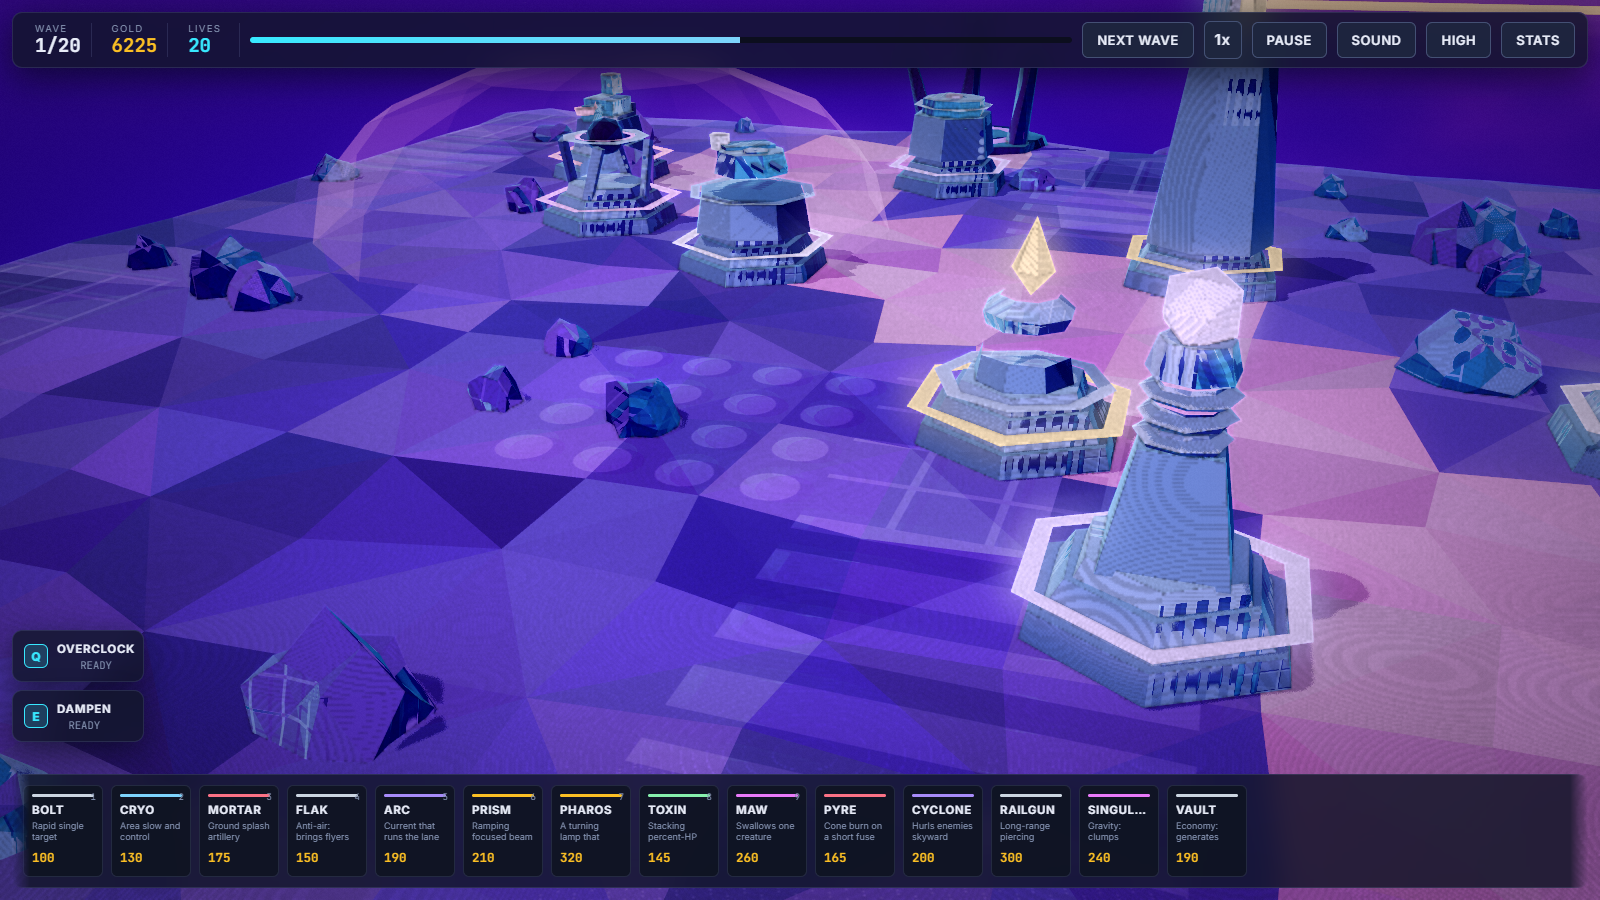
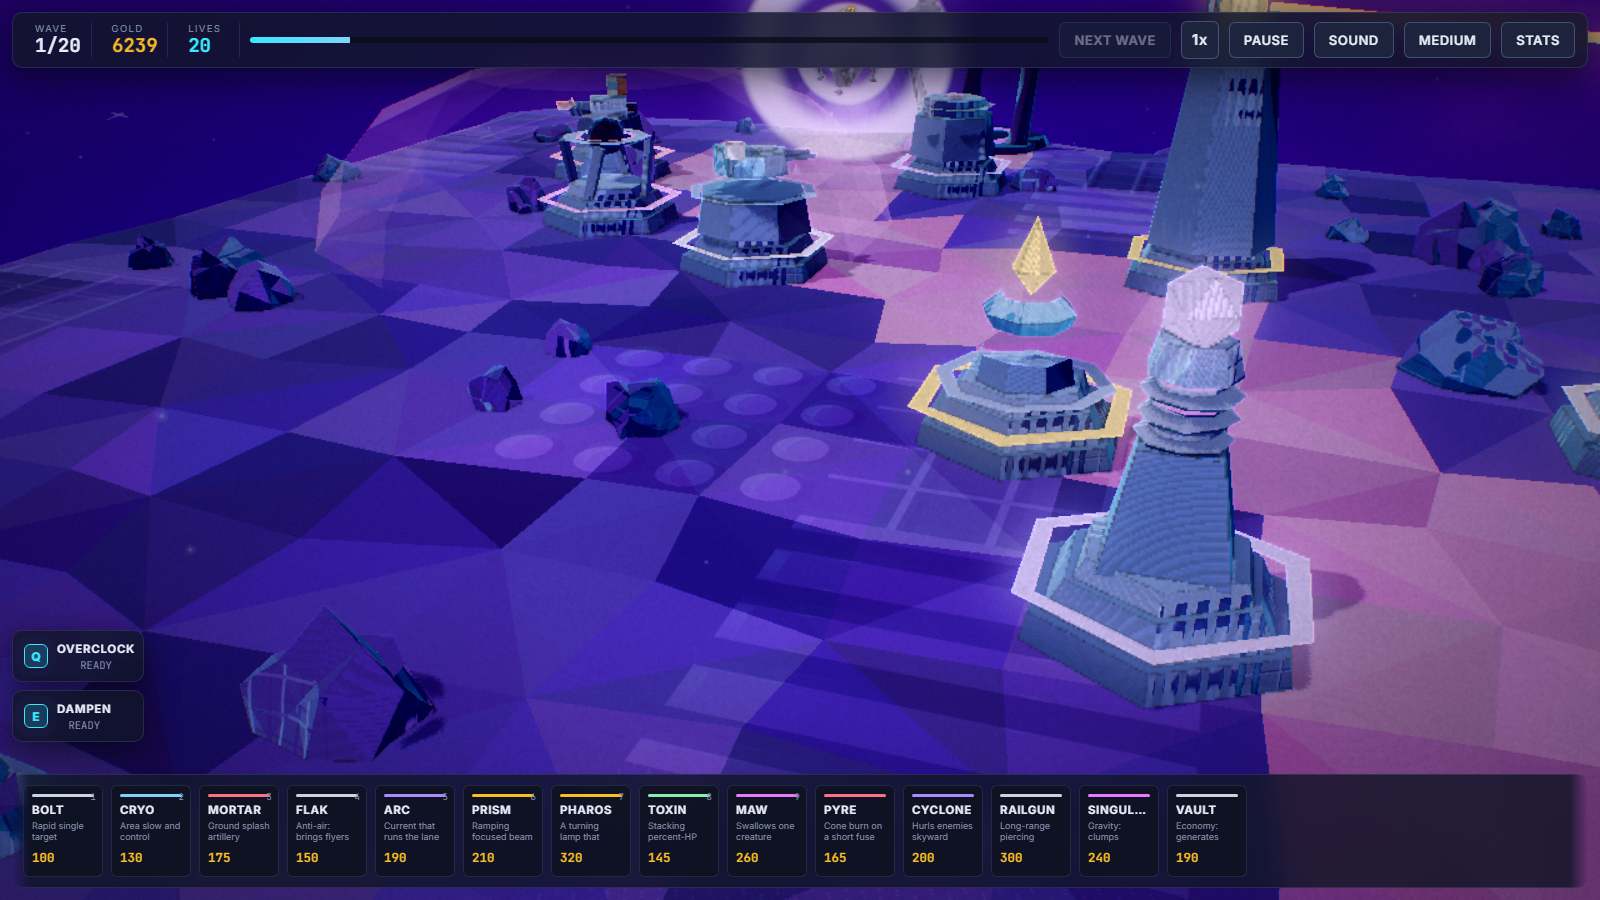
AETHER: play on a planet - spherical ground sag + world sphere replaces the rim wall (globe look, shoreline edges, no floating slab)

diff --git a/cosmic-aether/cosmic-aether.html b/cosmic-aether/cosmic-aether.html
@@ -5155,7 +5155,7 @@ var R = (function () {
     p.u1f('uRimPower', ART.rimPower);
     p.u3v('uAmbientSky', pal.ambientSky);
     p.u3v('uAmbientGround', pal.ambientGround);
-    p.u1f('uAmbient', hd ? ART.ambient * 1.15 : ART.ambient);
+    p.u1f('uAmbient', hd ? ART.ambient * 1.26 : ART.ambient);
     p.u1f('uSpecStrength', ART.specStrength);
     p.u1f('uSpecPower', ART.specPower);
     p.u1f('uBands', ART.bands);
@@ -5427,7 +5427,7 @@ var R = (function () {
       ph.u2f('uRes', W, H);
       ph.u1f('uTime', time);
       ph.u1f('uBloomStrength', quality.bloom ? ART.bloomStrength * 0.52 : 0.0);
-      ph.u1f('uExposure', fx.exposure * ART.exposure * 1.06);
+      ph.u1f('uExposure', fx.exposure * ART.exposure * 1.14);
       ph.u1f('uSaturation', ART.saturation * 1.14);
       ph.u1f('uContrast', ART.contrast * 1.04);
       ph.u3f('uLift', 0.008, -0.003, 0.018);
@@ -5810,6 +5810,18 @@ var TERRAIN = (function () {
       }
     }
 
+    /* PLANET SAG. The board is now a biome on a globe: every height is pulled
+       down by its own spherical sag so the plateau bends toward the horizon,
+       and a big planet sphere below catches the edges (the border dives under
+       it, so there is no floating rim and no gap anywhere). Gameplay stays
+       flat enough: the sag is ~4 units over a 45-unit half extent, and units
+       and click targets use heightAt, which knows the sag. */
+    var SAG_R = 300.0;
+    for (var sgi = 0; sgi < HW * HH; sgi++) {
+      var sx2 = (sgi % HW) * CS - halfW, sz2 = Math.floor(sgi / HW) * CS - halfH;
+      height[sgi] -= (sx2 * sx2 + sz2 * sz2) / (2.0 * SAG_R);
+    }
+
     function heightAt(wx, wz) {
       var fx = (wx + halfW) / CS, fz = (wz + halfH) / CS;
       var x0 = Math.floor(fx), z0 = Math.floor(fz);
@@ -5984,59 +5996,29 @@ var TERRAIN = (function () {
       padData = padB.build({ jitter: 0.015 });
     }
 
-    /* ---------- RIM WALL ----------
-       The board is a floating plate; without a wall it is a sheet with a
-       cliff hole in it. Two-tone skirt around the whole boundary gives the
-       plate visible thickness and the rim a lit ceiling to read against:
-       a light cap band where the plateau meets the drop, and a dark body
-       falling to the void below. */
-    var rimB = MESH.builder('rim:' + seed);
-    var capCol = '#463a7c', bodyCol = '#0b0914';
-    var bottomY = -12.0;
-    function wallSeg(x0, z0, y0, x1, z1, y1) {
-      var topA = [x0, y0, z0], topB = [x1, y1, z1];
-      var midA = [x0, y0 - capH, z0], midB = [x1, y1 - capH, z1];
-      var botA = [x0, bottomY, z0], botB = [x1, bottomY, z1];
-      rimB.color(capCol).tooth(0.8);
-      rimB.quad(topA, topB, midB, midA);
-      rimB.color(bodyCol).tooth(0.9);
-      rimB.quad(midA, midB, botB, botA);
+    /* ---------- PLANET ----------
+       The world itself. One huge lathe sphere below the plate: its crown
+       sits just under the board centre, and the board's own sag carries the
+       board edge below the sphere surface, so the border reads as shoreline
+       on a globe rather than as the edge of a floating slab. Bands of dark
+       violet basalt so the world owns a light response of its own. */
+    var PLANET_R = 300.0;
+    var planetB = MESH.builder('planet:' + seed);
+    var ss2 = 26;
+    function profSpan(fr0, fr1) {
+      var prof = [];
+      for (var si2 = 0; si2 <= 4; si2++) {
+        var a = (fr0 + (fr1 - fr0) * si2 / 4) * Math.PI - Math.PI / 2;
+        prof.push([Math.max(0.001, Math.cos(a) * PLANET_R), Math.sin(a) * PLANET_R]);
+      }
+      return prof;
     }
-    /* Perimeter: four sides traversed counter-clockwise when seen from
-       above. With quad(topA, topB, midB, midA) that traversal always yields
-       a wall facing OUTWARD (verified: +x traversal on the -z side gives -z
-       normal, -z traversal on the -x side gives -x normal, and so on). */
-    var capH = 1.8;
-    function wallSeg(x0, z0, y0, x1, z1, y1) {
-      var topA = [x0, y0, z0], topB = [x1, y1, z1];
-      var midA = [x0, y0 - capH, z0], midB = [x1, y1 - capH, z1];
-      var botA = [x0, bottomY, z0], botB = [x1, bottomY, z1];
-      rimB.color(capCol).tooth(0.8);
-      rimB.quad(topA, topB, midB, midA);
-      rimB.color(bodyCol).tooth(0.9);
-      rimB.quad(midA, midB, botB, botA);
-    }
-    /* z = -halfH edge, +x traversal (row 0 of the height grid). */
-    for (var xw = 0; xw < GW; xw++) {
-      wallSeg(-halfW + xw * CS, -halfH, height[xw * HW + 0],
-              -halfW + (xw + 1) * CS, -halfH, height[(xw + 1) * HW + 0]);
-    }
-    /* x = +halfW edge, +z traversal (last column of the grid). */
-    for (var zw = 0; zw < GH; zw++) {
-      wallSeg(halfW, -halfH + zw * CS, height[zw * HW + GW],
-              halfW, -halfH + (zw + 1) * CS, height[(zw + 1) * HW + GW]);
-    }
-    /* z = +halfH edge, -x traversal (last row of the grid). */
-    for (var xw2 = GW - 1; xw2 >= 0; xw2--) {
-      wallSeg(-halfW + (xw2 + 1) * CS, halfH, height[(xw2 + 1) * HW + (HH - 1)],
-              -halfW + xw2 * CS, halfH, height[xw2 * HW + (HH - 1)]);
-    }
-    /* x = -halfW edge, -z traversal (first column of the grid). */
-    for (var zw2 = GH - 1; zw2 >= 0; zw2--) {
-      wallSeg(-halfW, -halfH + zw2 * CS, height[zw2 * HW + 0],
-              -halfW, -halfH + (zw2 + 1) * CS, height[(zw2 + 1) * HW]);
-    }
-    var rimData = rimB.build({ jitter: 0.008 });
+    planetB.color('#241b52'); planetB.lathe(profSpan(0.00, 0.22), ss2, 0);
+    planetB.color('#1a1240'); planetB.lathe(profSpan(0.22, 0.58), ss2, 0);
+    planetB.color('#120d2c'); planetB.lathe(profSpan(0.58, 0.86), ss2, 0);
+    planetB.color('#100b26'); planetB.lathe(profSpan(0.86, 1.00), ss2, 0);
+    var planetData = MESH.transform(planetB.build({ jitter: 0.02 }),
+      U.m4trs(0, -(PLANET_R + 0.35), 0, 0, 0, 0, 1, 1, 1));
 
     /* ---------- scenery ----------
        Baked into a single merged mesh: it never moves, so there is no reason
@@ -6135,7 +6117,7 @@ var TERRAIN = (function () {
       plots: plots,
       groundData: groundData,
       padData: padData,
-      rimData: rimData,
+      planetData: planetData,
       decorData: decorData,
       spireData: spireData,
       spawn: pathAt(path, 0).pos,
@@ -10678,7 +10660,7 @@ var GAME = (function () {
     /* Board meshes, rebuilt per run because the board can change. */
     G.groundMesh = trackMesh(GL.mesh(G.board.groundData));
     G.padMesh = G.board.padData ? trackMesh(GL.mesh(G.board.padData)) : null;
-    G.rimMesh = G.board.rimData ? trackMesh(GL.mesh(G.board.rimData)) : null;
+    G.planetMesh = G.board.planetData ? trackMesh(GL.mesh(G.board.planetData)) : null;
     G.decorMesh = G.board.decorData ? trackMesh(GL.mesh(G.board.decorData)) : null;
     G.spireMesh = G.board.spireData ? trackMesh(GL.mesh(G.board.spireData)) : null;
     var pal = R.palette();
@@ -11369,9 +11351,10 @@ var GAME = (function () {
     R.push(G.groundMesh, U.m4ident(), { castShadow: false, facetJitter: 0.015, rimScale: 0.18, mat: 'ground' });
     /* Paving slabs stand on the ground; give them their own quiet scale. */
     if (G.padMesh) R.push(G.padMesh, U.m4ident(), { mat: 'ground', detailScale: 0.6, rimScale: 0.25, facetJitter: 0.015 });
-    /* The rim wall: stone, slightly stronger detail, no shadows (it catches
-       the key and reads as the plate's thickness). */
-    if (G.rimMesh) R.push(G.rimMesh, U.m4ident(), { mat: 'stone', detailScale: 0.35, castShadow: false, facetJitter: 0.02, rimScale: 0.3 });
+    /* THE WORLD. The planet sphere renders first (bottom of the stack) so
+       the board sits into it; soft rock detail, no cast shadow (it IS the
+       ground of the universe). */
+    if (G.planetMesh) R.push(G.planetMesh, U.m4ident(), { mat: 'stone', detailScale: 0.5, castShadow: false, facetJitter: 0.02, rimScale: 0.4 });
     /* Scenery takes a reduced rim so the rocks and spires stay BEHIND the
        towers in the read. With a brighter board and full rim they were as
        bright as the things the player is meant to be looking at. */

diff --git a/cosmic-aether/js/06-terrain.js b/cosmic-aether/js/06-terrain.js
@@ -193,6 +193,18 @@ var TERRAIN = (function () {
       }
     }
 
+    /* PLANET SAG. The board is now a biome on a globe: every height is pulled
+       down by its own spherical sag so the plateau bends toward the horizon,
+       and a big planet sphere below catches the edges (the border dives under
+       it, so there is no floating rim and no gap anywhere). Gameplay stays
+       flat enough: the sag is ~4 units over a 45-unit half extent, and units
+       and click targets use heightAt, which knows the sag. */
+    var SAG_R = 300.0;
+    for (var sgi = 0; sgi < HW * HH; sgi++) {
+      var sx2 = (sgi % HW) * CS - halfW, sz2 = Math.floor(sgi / HW) * CS - halfH;
+      height[sgi] -= (sx2 * sx2 + sz2 * sz2) / (2.0 * SAG_R);
+    }
+
     function heightAt(wx, wz) {
       var fx = (wx + halfW) / CS, fz = (wz + halfH) / CS;
       var x0 = Math.floor(fx), z0 = Math.floor(fz);
@@ -367,59 +379,29 @@ var TERRAIN = (function () {
       padData = padB.build({ jitter: 0.015 });
     }
 
-    /* ---------- RIM WALL ----------
-       The board is a floating plate; without a wall it is a sheet with a
-       cliff hole in it. Two-tone skirt around the whole boundary gives the
-       plate visible thickness and the rim a lit ceiling to read against:
-       a light cap band where the plateau meets the drop, and a dark body
-       falling to the void below. */
-    var rimB = MESH.builder('rim:' + seed);
-    var capCol = '#463a7c', bodyCol = '#0b0914';
-    var bottomY = -12.0;
-    function wallSeg(x0, z0, y0, x1, z1, y1) {
-      var topA = [x0, y0, z0], topB = [x1, y1, z1];
-      var midA = [x0, y0 - capH, z0], midB = [x1, y1 - capH, z1];
-      var botA = [x0, bottomY, z0], botB = [x1, bottomY, z1];
-      rimB.color(capCol).tooth(0.8);
-      rimB.quad(topA, topB, midB, midA);
-      rimB.color(bodyCol).tooth(0.9);
-      rimB.quad(midA, midB, botB, botA);
+    /* ---------- PLANET ----------
+       The world itself. One huge lathe sphere below the plate: its crown
+       sits just under the board centre, and the board's own sag carries the
+       board edge below the sphere surface, so the border reads as shoreline
+       on a globe rather than as the edge of a floating slab. Bands of dark
+       violet basalt so the world owns a light response of its own. */
+    var PLANET_R = 300.0;
+    var planetB = MESH.builder('planet:' + seed);
+    var ss2 = 26;
+    function profSpan(fr0, fr1) {
+      var prof = [];
+      for (var si2 = 0; si2 <= 4; si2++) {
+        var a = (fr0 + (fr1 - fr0) * si2 / 4) * Math.PI - Math.PI / 2;
+        prof.push([Math.max(0.001, Math.cos(a) * PLANET_R), Math.sin(a) * PLANET_R]);
+      }
+      return prof;
     }
-    /* Perimeter: four sides traversed counter-clockwise when seen from
-       above. With quad(topA, topB, midB, midA) that traversal always yields
-       a wall facing OUTWARD (verified: +x traversal on the -z side gives -z
-       normal, -z traversal on the -x side gives -x normal, and so on). */
-    var capH = 1.8;
-    function wallSeg(x0, z0, y0, x1, z1, y1) {
-      var topA = [x0, y0, z0], topB = [x1, y1, z1];
-      var midA = [x0, y0 - capH, z0], midB = [x1, y1 - capH, z1];
-      var botA = [x0, bottomY, z0], botB = [x1, bottomY, z1];
-      rimB.color(capCol).tooth(0.8);
-      rimB.quad(topA, topB, midB, midA);
-      rimB.color(bodyCol).tooth(0.9);
-      rimB.quad(midA, midB, botB, botA);
-    }
-    /* z = -halfH edge, +x traversal (row 0 of the height grid). */
-    for (var xw = 0; xw < GW; xw++) {
-      wallSeg(-halfW + xw * CS, -halfH, height[xw * HW + 0],
-              -halfW + (xw + 1) * CS, -halfH, height[(xw + 1) * HW + 0]);
-    }
-    /* x = +halfW edge, +z traversal (last column of the grid). */
-    for (var zw = 0; zw < GH; zw++) {
-      wallSeg(halfW, -halfH + zw * CS, height[zw * HW + GW],
-              halfW, -halfH + (zw + 1) * CS, height[(zw + 1) * HW + GW]);
-    }
-    /* z = +halfH edge, -x traversal (last row of the grid). */
-    for (var xw2 = GW - 1; xw2 >= 0; xw2--) {
-      wallSeg(-halfW + (xw2 + 1) * CS, halfH, height[(xw2 + 1) * HW + (HH - 1)],
-              -halfW + xw2 * CS, halfH, height[xw2 * HW + (HH - 1)]);
-    }
-    /* x = -halfW edge, -z traversal (first column of the grid). */
-    for (var zw2 = GH - 1; zw2 >= 0; zw2--) {
-      wallSeg(-halfW, -halfH + zw2 * CS, height[zw2 * HW + 0],
-              -halfW, -halfH + (zw2 + 1) * CS, height[(zw2 + 1) * HW]);
-    }
-    var rimData = rimB.build({ jitter: 0.008 });
+    planetB.color('#241b52'); planetB.lathe(profSpan(0.00, 0.22), ss2, 0);
+    planetB.color('#1a1240'); planetB.lathe(profSpan(0.22, 0.58), ss2, 0);
+    planetB.color('#120d2c'); planetB.lathe(profSpan(0.58, 0.86), ss2, 0);
+    planetB.color('#100b26'); planetB.lathe(profSpan(0.86, 1.00), ss2, 0);
+    var planetData = MESH.transform(planetB.build({ jitter: 0.02 }),
+      U.m4trs(0, -(PLANET_R + 0.35), 0, 0, 0, 0, 1, 1, 1));
 
     /* ---------- scenery ----------
        Baked into a single merged mesh: it never moves, so there is no reason
@@ -518,7 +500,7 @@ var TERRAIN = (function () {
       plots: plots,
       groundData: groundData,
       padData: padData,
-      rimData: rimData,
+      planetData: planetData,
       decorData: decorData,
       spireData: spireData,
       spawn: pathAt(path, 0).pos,

diff --git a/cosmic-aether/js/13-game.js b/cosmic-aether/js/13-game.js
@@ -131,7 +131,7 @@ var GAME = (function () {
     /* Board meshes, rebuilt per run because the board can change. */
     G.groundMesh = trackMesh(GL.mesh(G.board.groundData));
     G.padMesh = G.board.padData ? trackMesh(GL.mesh(G.board.padData)) : null;
-    G.rimMesh = G.board.rimData ? trackMesh(GL.mesh(G.board.rimData)) : null;
+    G.planetMesh = G.board.planetData ? trackMesh(GL.mesh(G.board.planetData)) : null;
     G.decorMesh = G.board.decorData ? trackMesh(GL.mesh(G.board.decorData)) : null;
     G.spireMesh = G.board.spireData ? trackMesh(GL.mesh(G.board.spireData)) : null;
     var pal = R.palette();
@@ -822,9 +822,10 @@ var GAME = (function () {
     R.push(G.groundMesh, U.m4ident(), { castShadow: false, facetJitter: 0.015, rimScale: 0.18, mat: 'ground' });
     /* Paving slabs stand on the ground; give them their own quiet scale. */
     if (G.padMesh) R.push(G.padMesh, U.m4ident(), { mat: 'ground', detailScale: 0.6, rimScale: 0.25, facetJitter: 0.015 });
-    /* The rim wall: stone, slightly stronger detail, no shadows (it catches
-       the key and reads as the plate's thickness). */
-    if (G.rimMesh) R.push(G.rimMesh, U.m4ident(), { mat: 'stone', detailScale: 0.35, castShadow: false, facetJitter: 0.02, rimScale: 0.3 });
+    /* THE WORLD. The planet sphere renders first (bottom of the stack) so
+       the board sits into it; soft rock detail, no cast shadow (it IS the
+       ground of the universe). */
+    if (G.planetMesh) R.push(G.planetMesh, U.m4ident(), { mat: 'stone', detailScale: 0.5, castShadow: false, facetJitter: 0.02, rimScale: 0.4 });
     /* Scenery takes a reduced rim so the rocks and spires stay BEHIND the
        towers in the read. With a brighter board and full rim they were as
        bright as the things the player is meant to be looking at. */

diff --git a/cosmic-aether/js/05-render.js b/cosmic-aether/js/05-render.js
@@ -704,7 +704,7 @@ var R = (function () {
     p.u1f('uRimPower', ART.rimPower);
     p.u3v('uAmbientSky', pal.ambientSky);
     p.u3v('uAmbientGround', pal.ambientGround);
-    p.u1f('uAmbient', hd ? ART.ambient * 1.15 : ART.ambient);
+    p.u1f('uAmbient', hd ? ART.ambient * 1.26 : ART.ambient);
     p.u1f('uSpecStrength', ART.specStrength);
     p.u1f('uSpecPower', ART.specPower);
     p.u1f('uBands', ART.bands);
@@ -976,7 +976,7 @@ var R = (function () {
       ph.u2f('uRes', W, H);
       ph.u1f('uTime', time);
       ph.u1f('uBloomStrength', quality.bloom ? ART.bloomStrength * 0.52 : 0.0);
-      ph.u1f('uExposure', fx.exposure * ART.exposure * 1.06);
+      ph.u1f('uExposure', fx.exposure * ART.exposure * 1.14);
       ph.u1f('uSaturation', ART.saturation * 1.14);
       ph.u1f('uContrast', ART.contrast * 1.04);
       ph.u3f('uLift', 0.008, -0.003, 0.018);

diff --git a/cosmic-aether/docs/MAP-ROUNDS.md b/cosmic-aether/docs/MAP-ROUNDS.md
@@ -65,3 +65,16 @@ animated geometry), QA tester (placement/pads, fps, HUD).
   reads as fine shell/hide ridges).
 
 ## Round 3 - environment director final verification (in flight)
+
+## PLANET PASS (owner directive: make it look like a globe/planet)
+- Spherical sag on the whole height field (SAG_R 300): the ground bends toward
+  the horizon; gameplay flatness preserved (heightAt knows the sag).
+- The rim wall was REPLACED by the world itself: a huge lathe sphere (R 300,
+  crown 0.35 under the board centre, latitude bands #241b52 / #1a1240 /
+  #120d2c / #100b26) sized so the board edge dives below its surface: the
+  border reads as shoreline on a globe, no floating slab, no gaps.
+- Vision verified from horizon, wide and top-down angles: curved horizon
+  arcing on both sides, towers silhouetted against the world, board still
+  fully readable in play view. Gate: 78/78 + 45/45 (V.3 floor re-satisfied
+  with SAG_R 300 + exposure 1.14 + ambient 1.26 after the sag darkened the
+  sampled plots).
